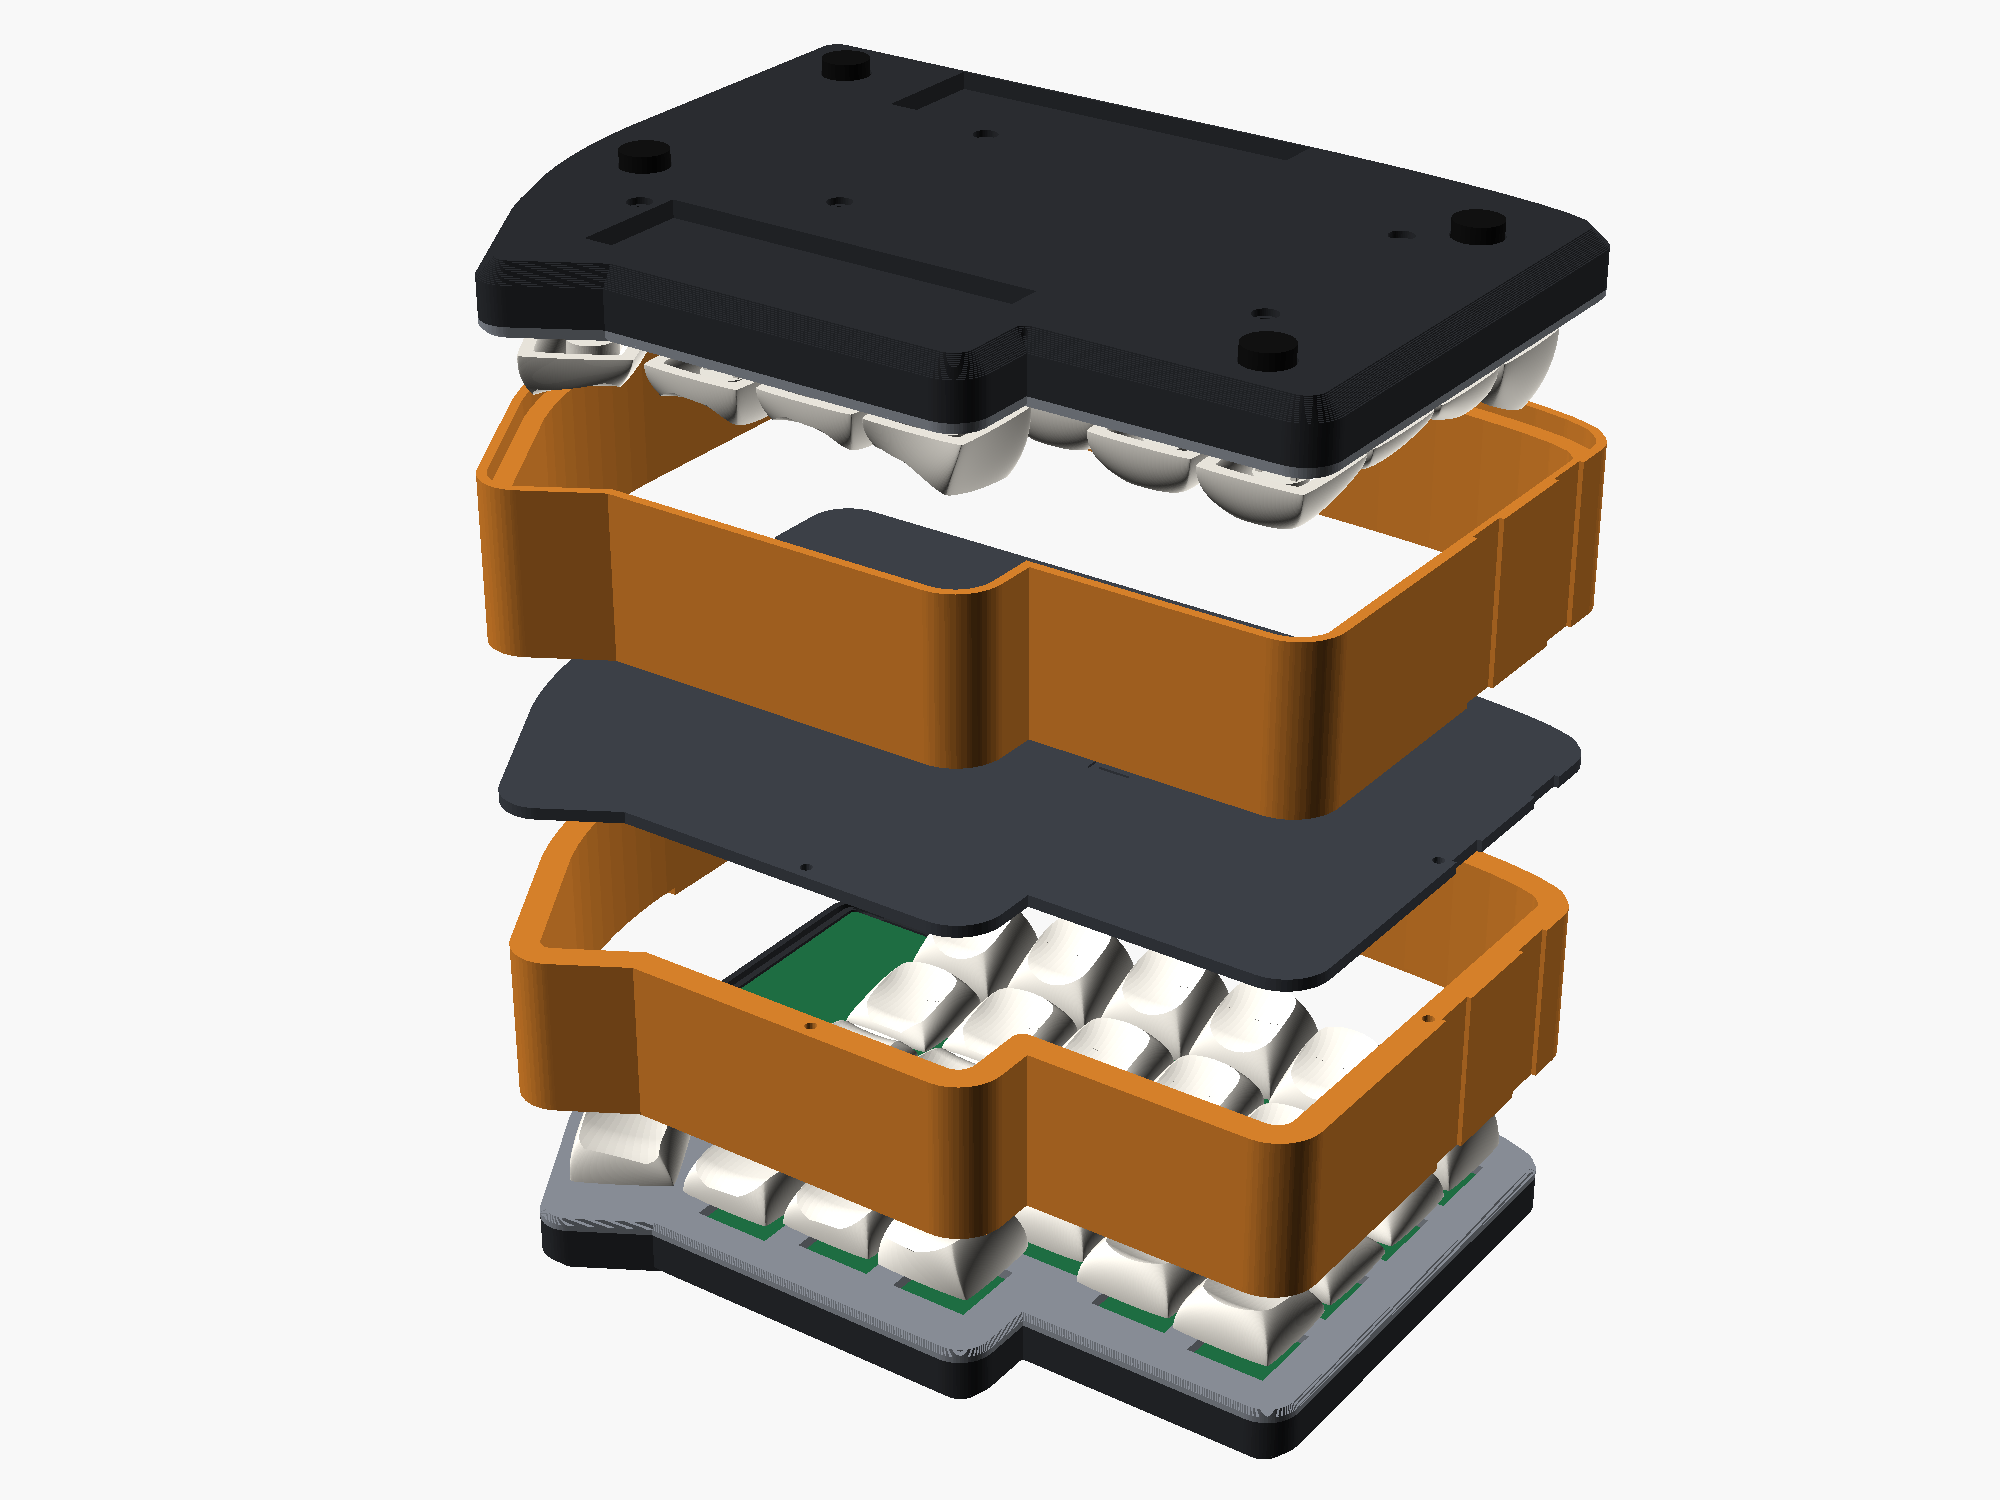
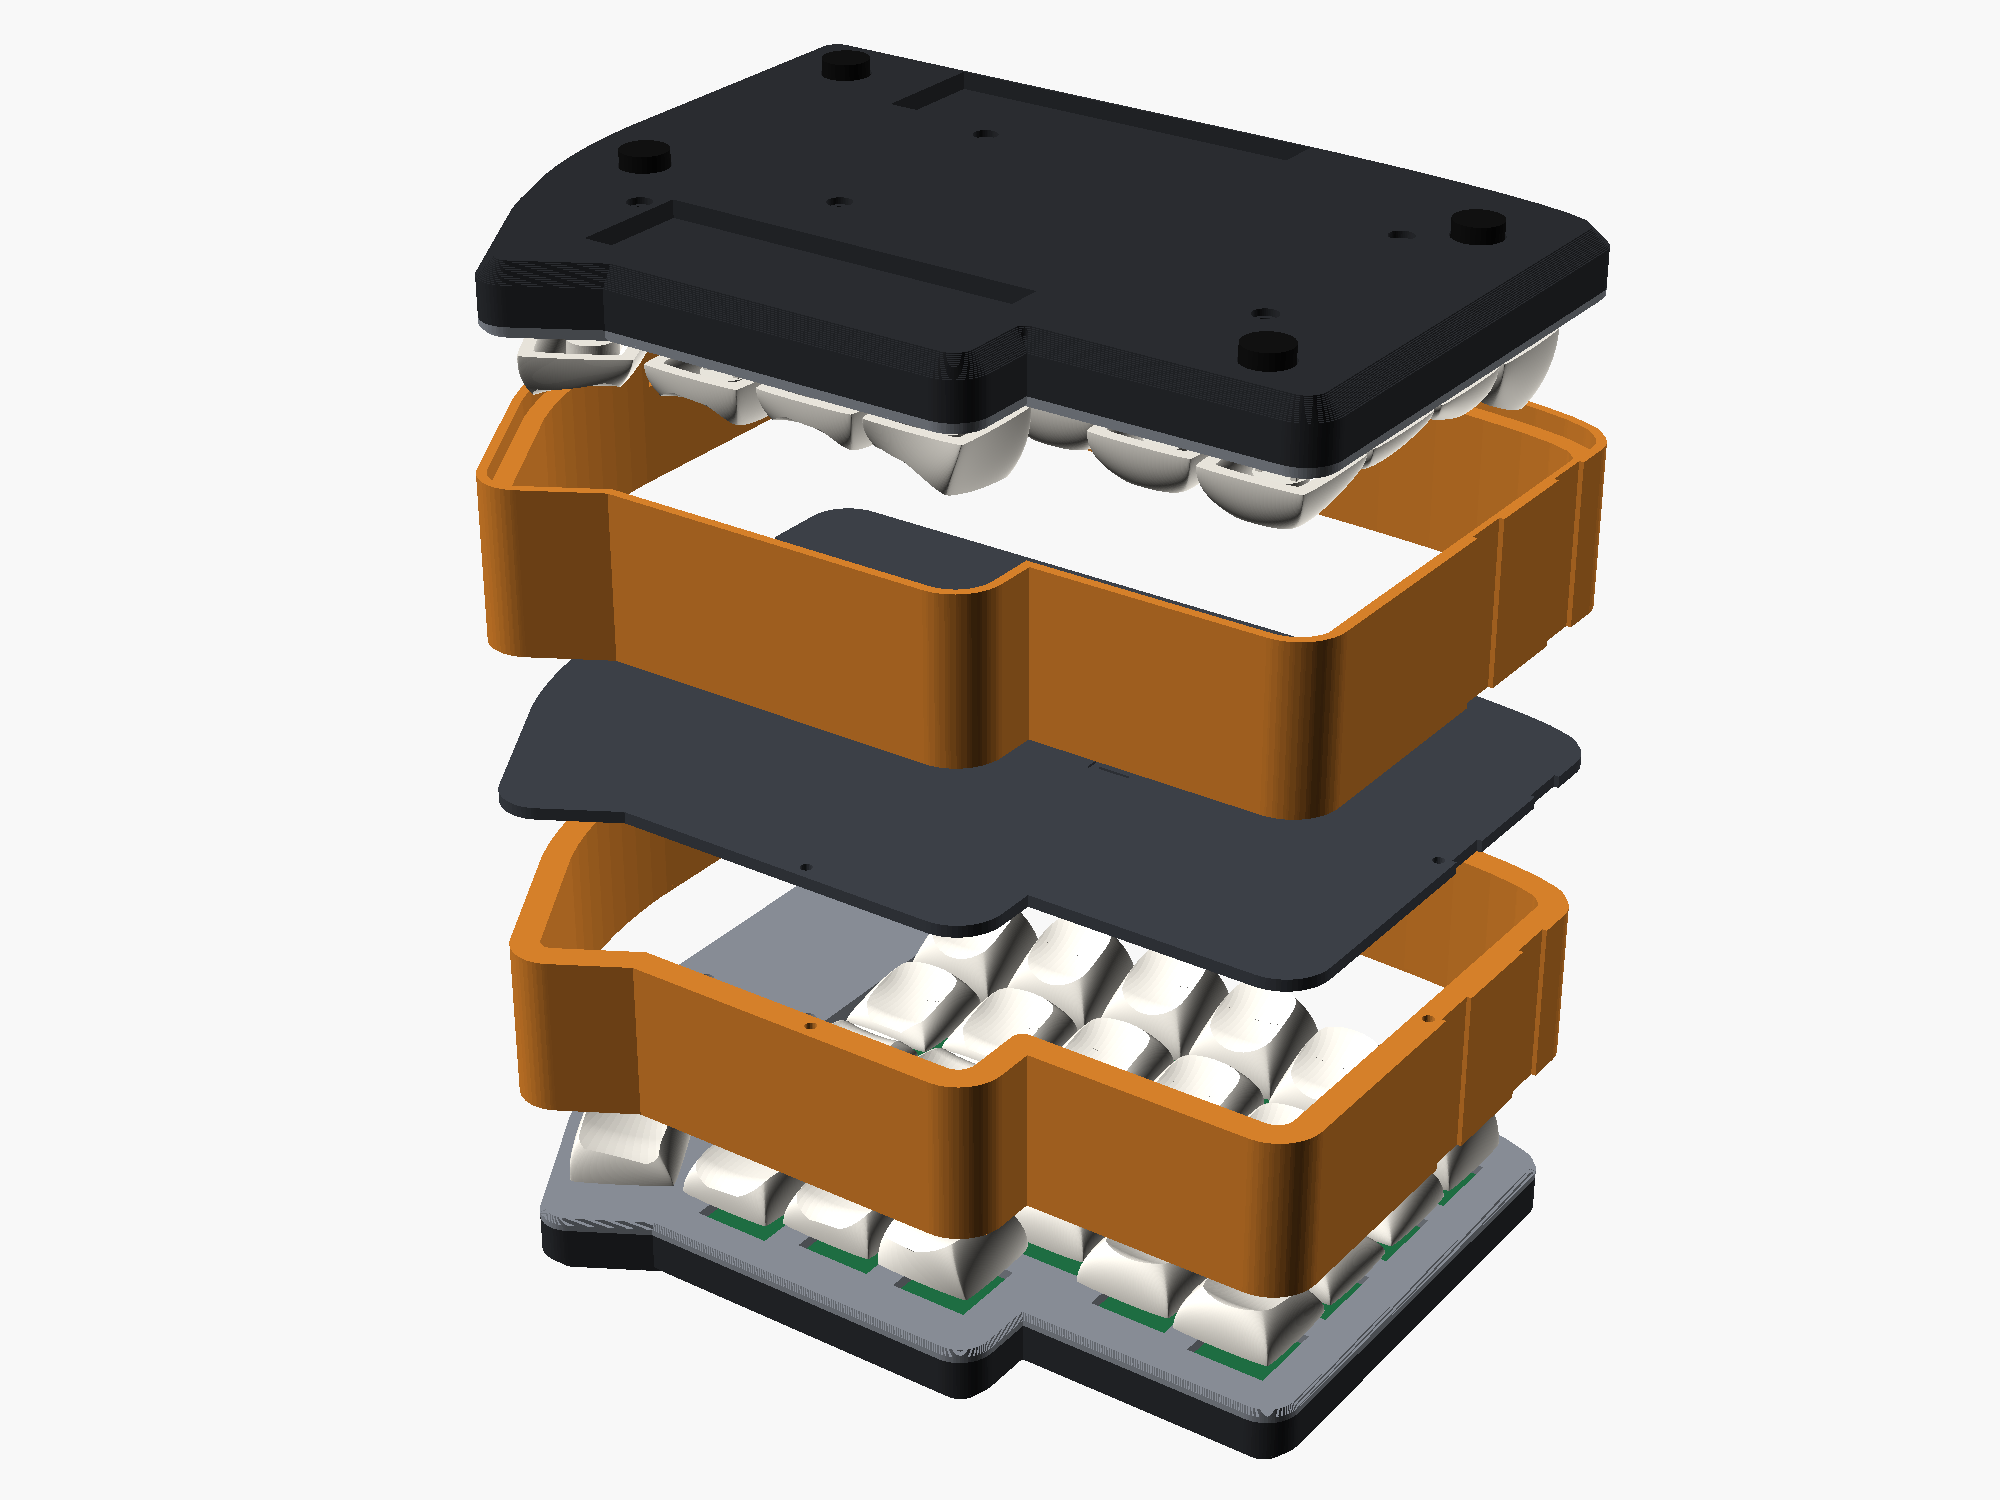
Case: controller cover with heat-set inserts
The cover's underside is 7.7 mm above the PCB (Pro Micro 7.4 mm); it
clicks into the wall groove with the plate's tongue, has inner walls
along the plate edge and two posts that press on the PCB round the
cover holes. M2x12 from the top go through cover and PCB into heat-set
inserts (3.9 mm across flats, 1.5 mm long) in the tray rings, which
replace the pilot holes. The carry case frame is now open over the
cover (7.8 mm deep) instead of resting on the wall top in the
controller zone. Renders updated.

Changed region(s): [[0.341, 0.5827, 0.465, 0.7053]]

diff --git a/docs/adr/0012-case-tray-with-plate.md b/docs/adr/0012-case-tray-with-plate.md
@@ -45,9 +45,16 @@ template matches the owner's PCB exactly.
 - **Assembly:** standoffs into the pockets, M2x4 from below; PCB onto the tray bosses; plate with
   the switches on top (it snaps into the groove, the switches go into the hotswap sockets); M2x4 from
   the top through the plate into the standoffs.
-- **No OLED, no cover yet** (owner's choice, v4): the controller zone stays open; the plate ends
-  1 mm clear of the neighbouring keycaps. A separate cover follows later; the support rings under
-  the two OLED holes already have M2 pilot holes for it.
+- **No OLED** (owner's choice, v4): the plate leaves the controller zone open and ends 1 mm clear of
+  the neighbouring keycaps.
+- **Controller cover** (`part="cover"`, owner: 7.7 mm above the PCB, clicks into the tray): a 1.5 mm
+  top whose underside is 7.7 mm above the PCB top (Pro Micro: 7.4 mm), walls on the tray wall with
+  the plate's tongue in the groove, 1.5 mm inner walls along the plate edge (0.2 mm gap) down to the
+  plate top, and two Ø 4.5 mm posts that press on the PCB round the two cover (OLED) holes. An M2x12
+  from the top (head flush) goes through the cover and the PCB into a heat-set insert (3.9 mm across
+  flats, 1.5 mm long) in the tray ring below the PCB: Ø 3.6 × 1.8 mm melt-in hole, then 2 mm room
+  for the screw tip (it ends 0.8 mm below the insert). The screw clamps the PCB between post and
+  ring. Printed top down. The ports are cut through its walls.
 - **USB and TRRS** get rounded slots through the top wall, 2 mm closer to the
   inner edge than the KiCad positions (owner's test print).
 - **Rubber feet:** Ø 8 × 4 mm, recessed 1.4 mm (pockets Ø 8.4 mm, 0.6 mm floor above), sticking
@@ -96,6 +103,7 @@ template matches the owner's PCB exactly.
 19. Cover (OLED) holes on the owner's PCB: Ø 2.1 mm, centres at x 2.2 / 25.05 mm from the inner
     edge, 47.25 mm below the top edge (Lily58 Pro data: 3.06 / 25.06, 47.91, Ø 2.4). Measured edge
     to edge from the PCB and from the case outside; both agree. Choc board not measured.
+20. Heat-set inserts M2: 3.9 mm across flats, 1.5 mm long; screws M2 x 10/12/16/20.
 
 ## Consequences
 

diff --git a/docs/adr/0015-carry-case.md b/docs/adr/0015-carry-case.md
@@ -14,9 +14,10 @@ themselves are the outer shell. The tray stays unchanged (ADR 0012).
 - **Stack:** right half keys up – frame – middle plate – frame – left half keys down. Turned over,
   the left half's outline covers the right one exactly, so every part follows the right outline.
 - **Frame** (`part="frame"`, `side=right|left`): a ring that rests on the outer 3 mm of the switch
-  plate (`cc_rest`; all keycaps lie inside the PCB outline, checked) and in the open controller zone
-  on the wall top, `cc_step` = 1.5 mm lower (the MX plate). On the Choc board (1.9 mm plate) that
-  step stays 0.4 mm clear, so the same frame rests on the plate of either board. A 1.6 mm skirt reaches 3 mm down round the plate edge
+  plate (`cc_rest`; all keycaps lie inside the PCB outline, checked). Over the controller cover
+  (ADR 0012) it is open inside the skirt, `cc_cover` = 7.8 mm deep: the cover stands 7.3 mm above
+  the plate on the Choc board (4.2 on MX), + 0.5 mm. So one frame fits both boards, with or without
+  the cover. A 1.6 mm skirt reaches 3 mm down round the plate edge
   (0.3 mm gap) and keeps the half from sliding. Height `cc_caps + cc_air` = 23.5 + 1 mm. Printed with
   the middle-plate face on the bed; no overhangs. Right frame on the right half, left on the left.
 - **Middle plate** (`part="mid"`): 2 mm, an engraved "L" faces the left half.
@@ -37,7 +38,7 @@ themselves are the outer shell. The tray stays unchanged (ADR 0012).
 ## Consequences
 
 - Changes to the tray outline or the plate (ADR 0012) change the frames.
-- The controller cover (not designed yet) must stay below the frame or get a recess.
+- A taller controller cover needs a deeper `cc_cover`.
 
 ## Images
 

diff --git a/CLAUDE.md b/CLAUDE.md
@@ -30,7 +30,8 @@ Context for new sessions. Read this first, then the ADRs in `docs/adr/` for the 
 6. **Case** (branch `lily58-case`, ADR 0012): draft v6 tray + plate for the owner's PandaKB
    Lily58 RGB MX (no OLED), as flat as possible. M2 hex standoffs in the tray bosses (MX 10 mm,
    Choc 6 mm), M2x4 from below and from the top; the plate covers the wall and snaps into a
-   groove (tune with `part="snap_test"`). Controller zone open, separate cover later.
+   groove (tune with `part="snap_test"`). Controller cover clicks into the same groove, M2x12 into
+   heat-set inserts in the tray rings (cover holes measured, MEASURE 19).
    Two folding tenting feet per half in pockets in the bottom, flush with the rubber feet.
    Switch cutout 13.8 mm, confirmed by the plate fit test.
 7. **Travel sleeve** (ADR 0013): box with two chambers, halves slide in keys up, tray unchanged.
@@ -59,7 +60,7 @@ python3 tools/kicad2scad.py <Lily58_Pro.kicad_pcb> common/lily58_layout.scad   #
 ```
 
 The KiCad file comes from `github.com/kata0510/Lily58` (`Pro/PCB/`, MIT); it is not cloned by any
-script. `case/lily58_case.scad` takes `part=tray|plate|sleeve|frame|mid|snap_test|plate_test|template|assembly|travel|carry`, `side=right|left`.
+script. `case/lily58_case.scad` takes `part=tray|plate|cover|sleeve|frame|mid|snap_test|plate_test|template|assembly|travel|carry`, `side=right|left`.
 
 `test` and `all` are legacy DSA modes (no flat sides, old support) – not maintained.
 Output: `~/Documents/lily58_keycaps/stl/<mode folder>/` = `<Group>_body.stl` + `<Group>_legends.stl`,
